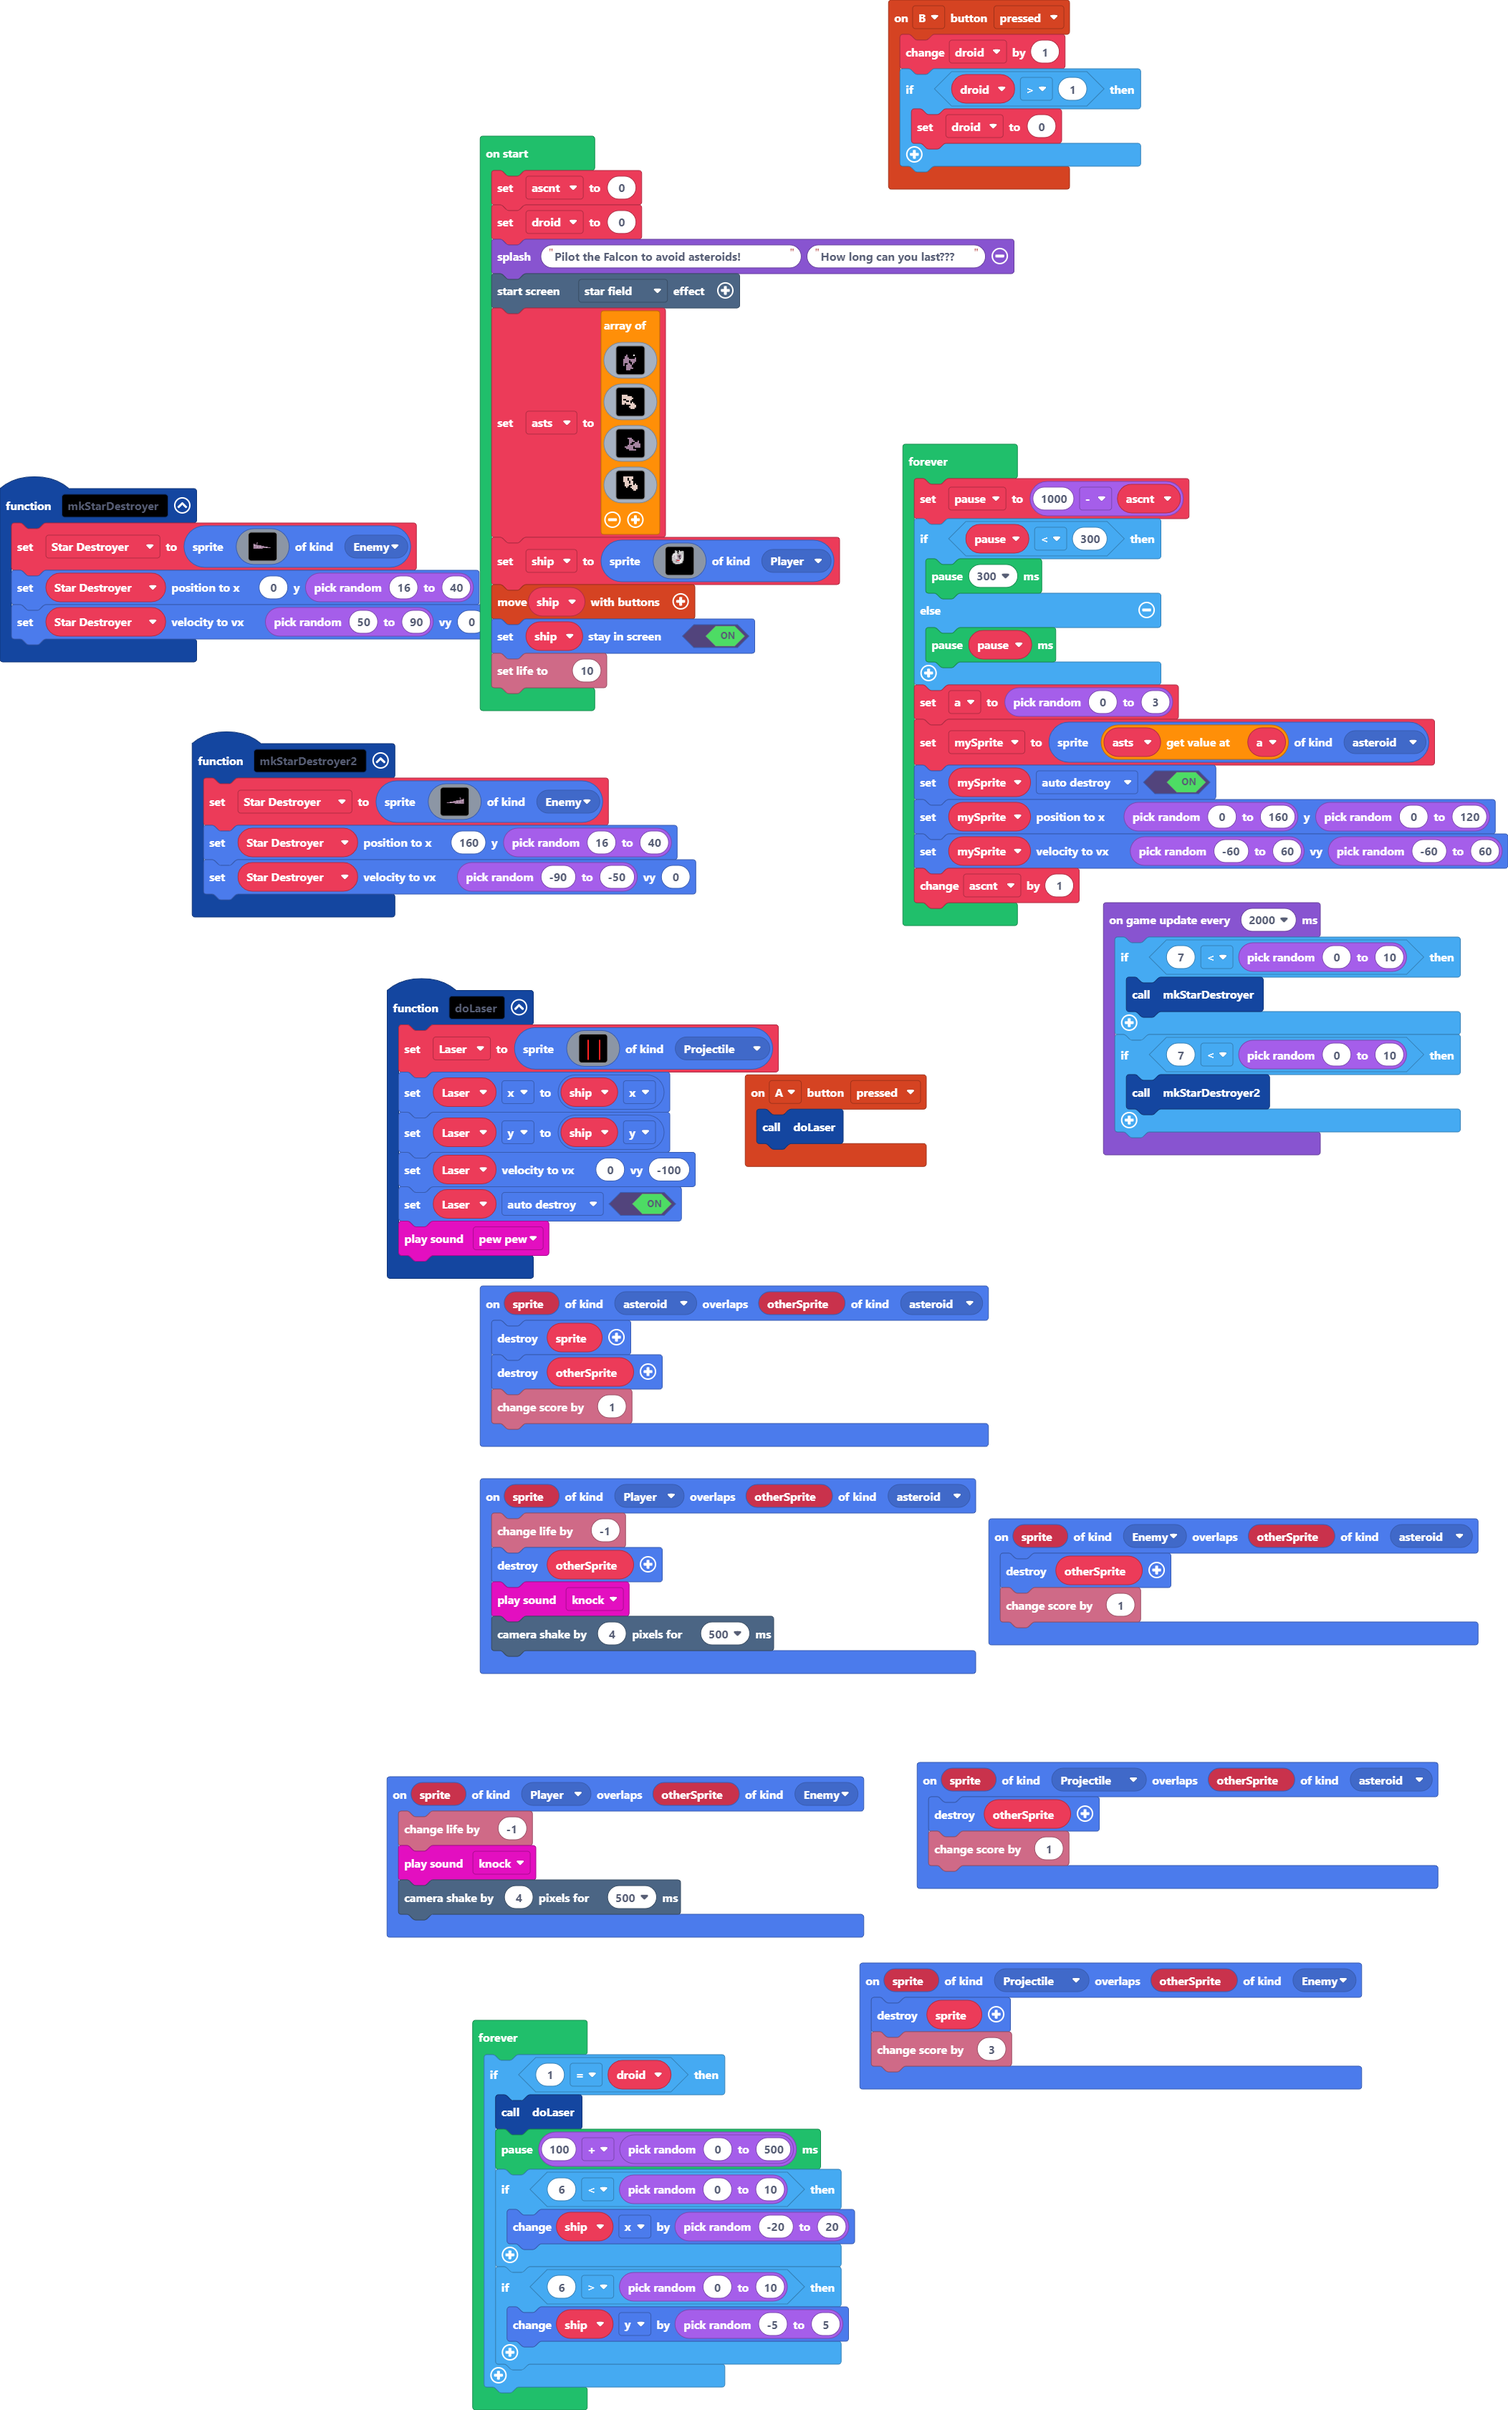
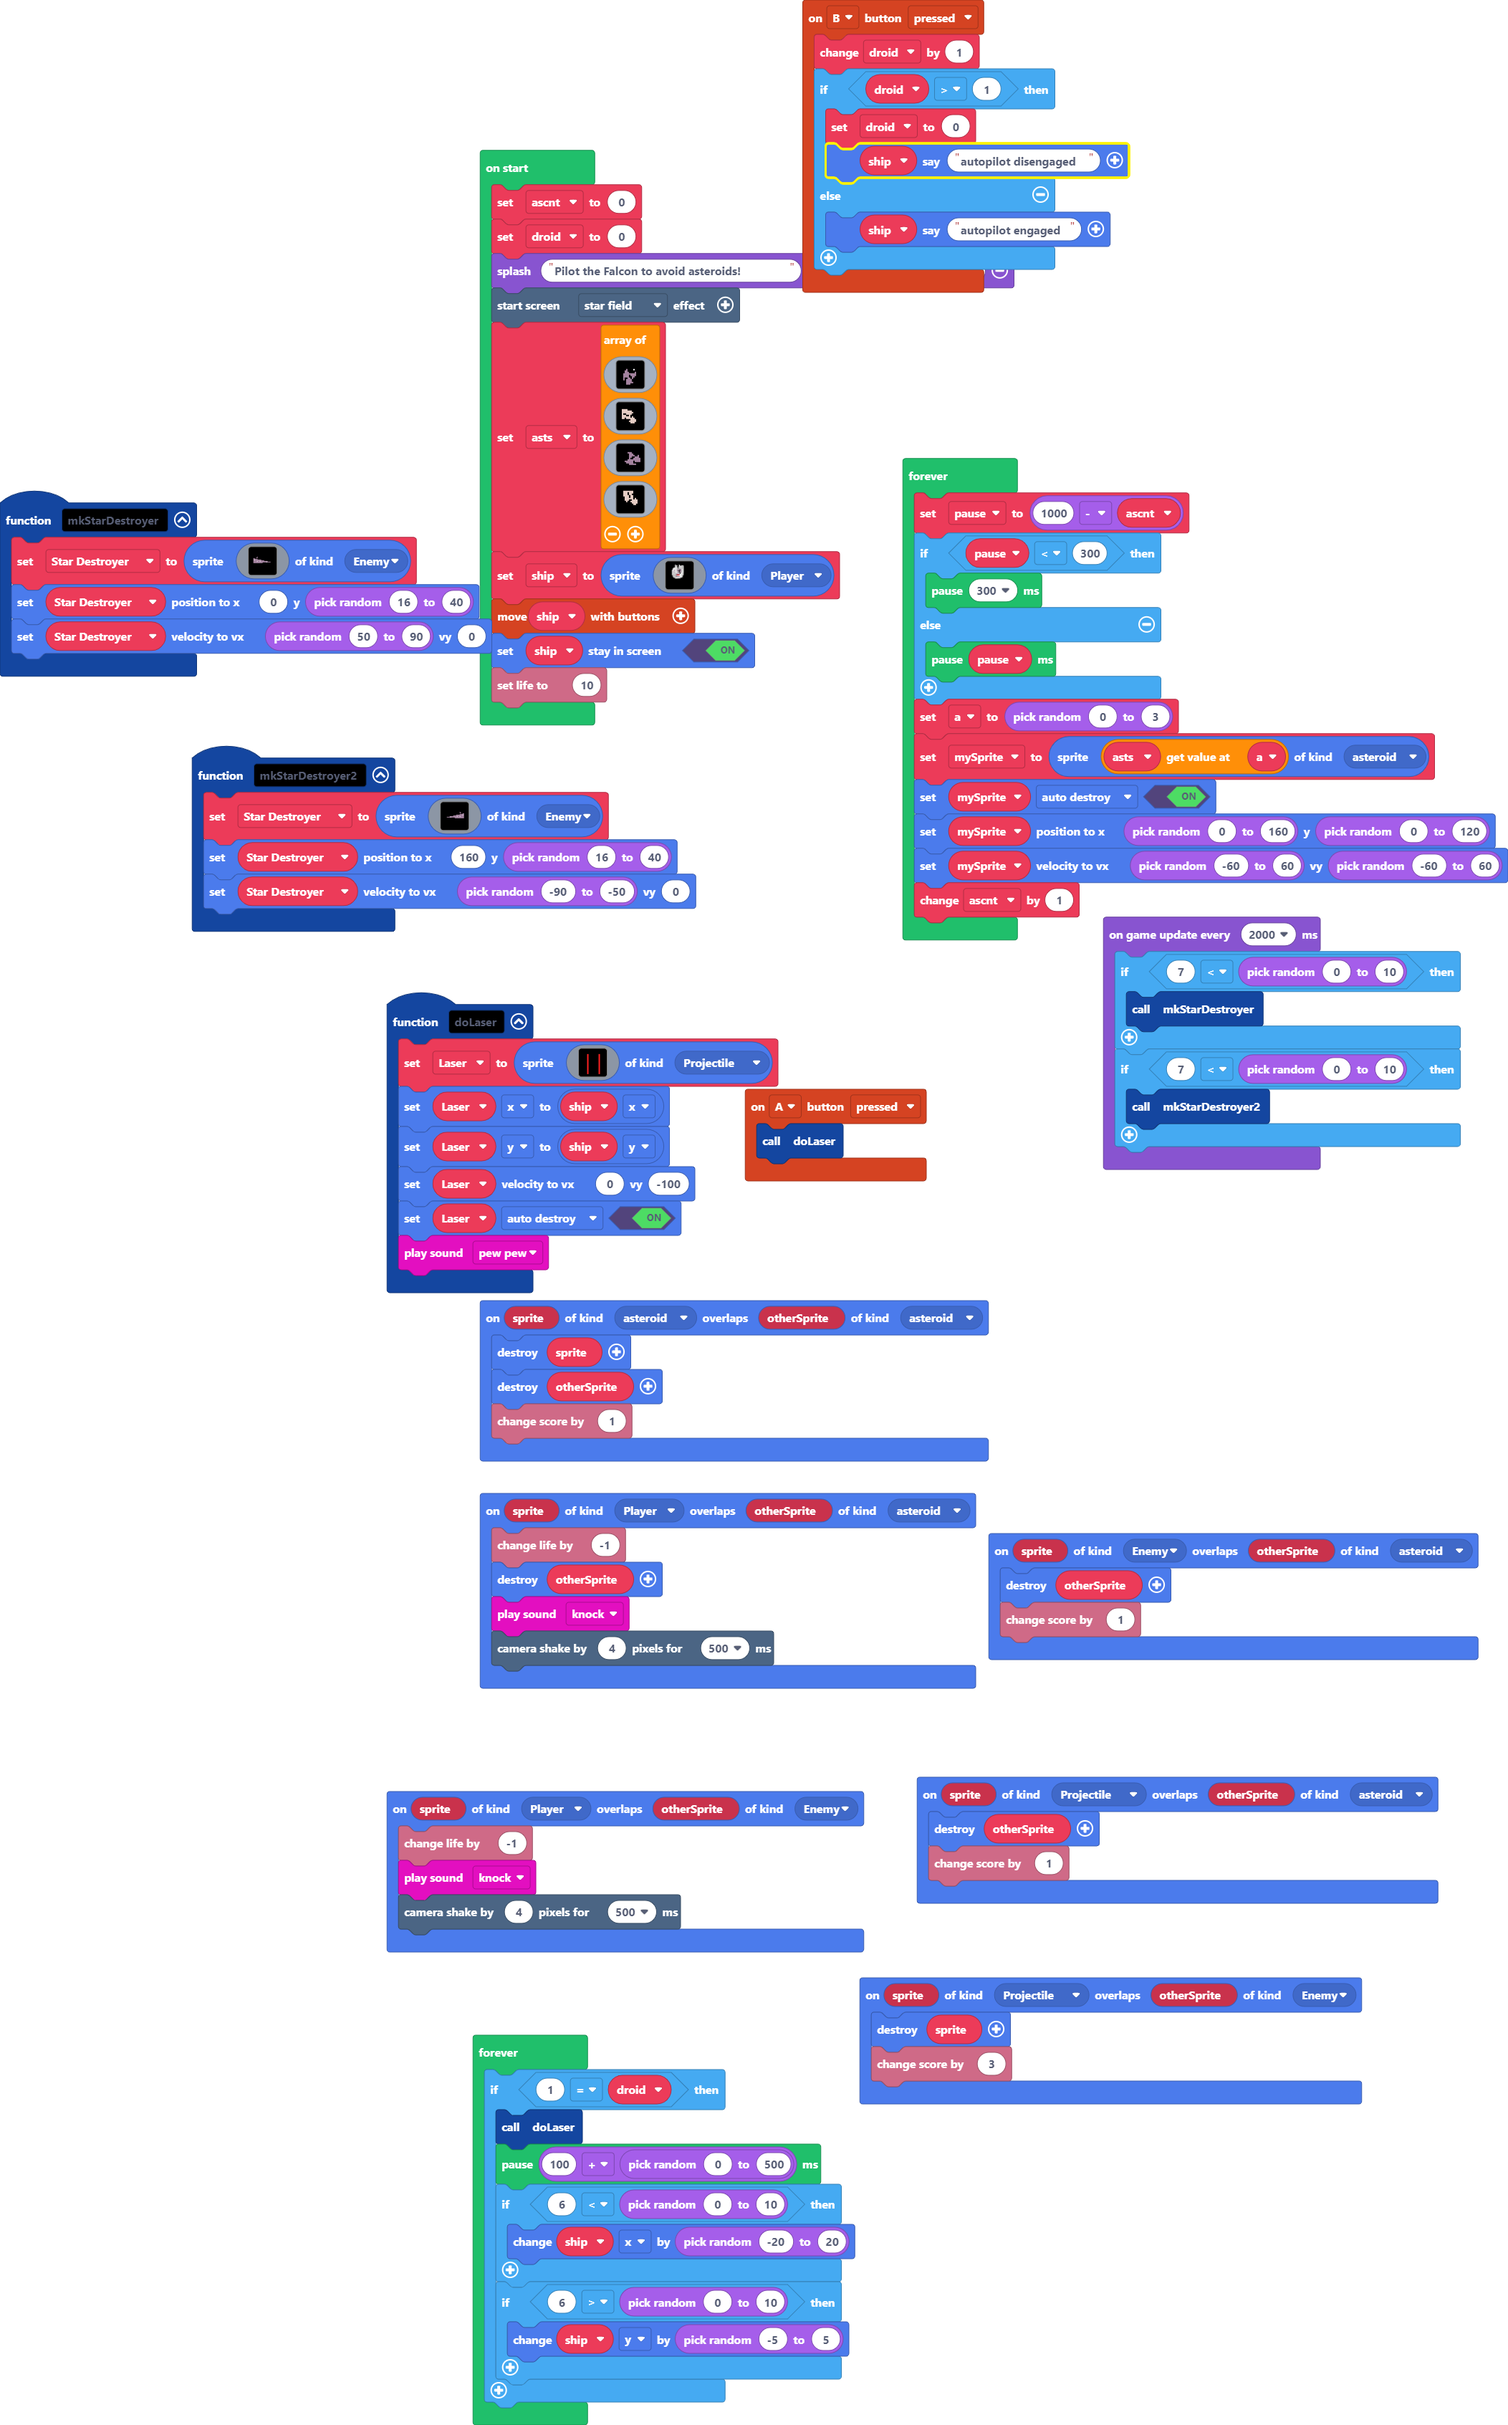
added text for autopilot

diff --git a/main.ts b/main.ts
@@ -28,9 +28,9 @@ controller.B.onEvent(ControllerButtonEvent.Pressed, function () {
     droid += 1
     if (droid > 1) {
         droid = 0
-        ship.sayText("autopilot disengaged", 500, false)
+        ship.sayText("autopilot disengaged")
     } else {
-        ship.sayText("autopilot engaged", 500, false)
+        ship.sayText("autopilot engaged")
     }
 })
 controller.A.onEvent(ControllerButtonEvent.Pressed, function () {
